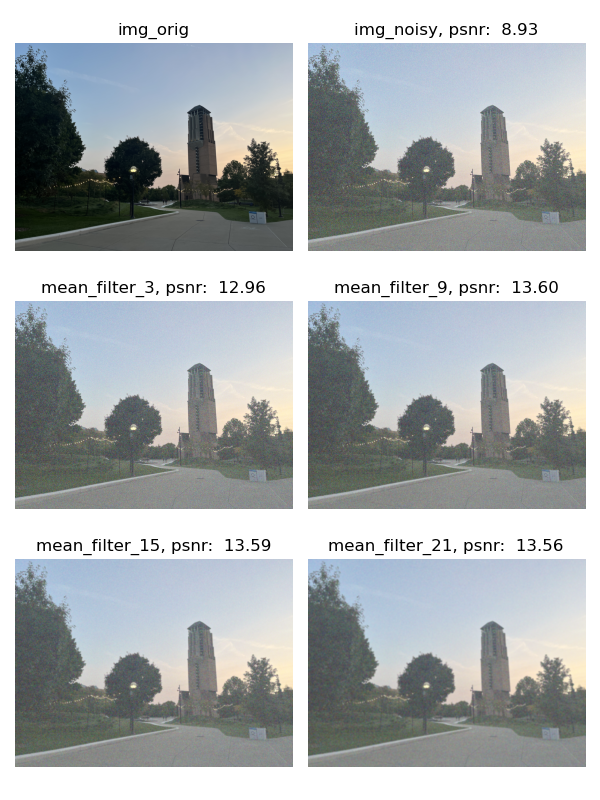
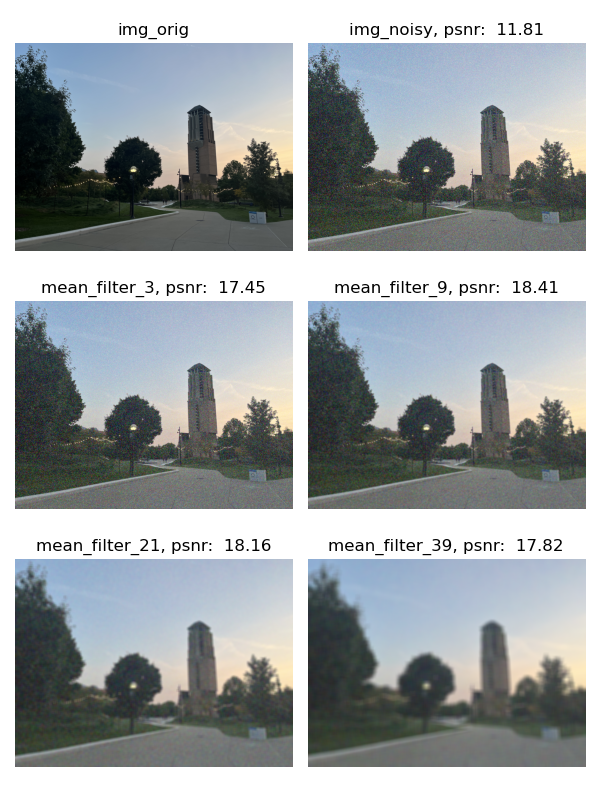
Modify 02 codes.

diff --git a/02-image-denoising/image_denoising.py b/02-image-denoising/image_denoising.py
@@ -4,17 +4,17 @@ import matplotlib.pyplot as plt
 import sys
 
 
-def get_noisy_image(path, mean=0, sigma=5):
+def get_noisy_image(path, mean, sigma):
     img = cv2.imread(path, cv2.IMREAD_GRAYSCALE)
-    #img = cv2.resize(img, (1000, 750))
+    img = cv2.resize(img, (2000, 1500))
     gauss_noise = np.random.normal(mean, sigma, img.shape).astype(img.dtype)
     img_noisy = cv2.add(img, gauss_noise)
     return img, img_noisy
 
-def get_noisy_image_color(path, mean=0, sigma=5):
+def get_noisy_image_color(path, mean, sigma):
     img= cv2.imread(path) #BGR
     img = cv2.cvtColor(img, cv2.COLOR_BGR2RGB)
-    #img = cv2.resize(img, (1000, 750))
+    img = cv2.resize(img, (2000, 1500))
     row, col, ch = img.shape
     gauss = np.random.normal(mean, sigma, (row, col, ch))
     gauss_noise = gauss.reshape(row, col, ch).astype('uint8')
@@ -44,46 +44,50 @@ def visualization(imgs: dict, save_name):
     plt.show()
 
 def get_mean_filter_results(img_orig, img_noisy):
-    mean_filtering_3 = cv2.blur(img_noisy, (3,3))
-    mean_filtering_9 = cv2.blur(img_noisy, (9,9))
-    mean_filtering_15 = cv2.blur(img_noisy, (15,15))
-    mean_filtering_21 = cv2.blur(img_noisy, (21,21))
+    mean_filtering_3 = cv2.blur(img_noisy, (3, 3))
+    mean_filtering_9 = cv2.blur(img_noisy, (9, 9))
+    mean_filtering_21 = cv2.blur(img_noisy, (21, 21))
+    mean_filtering_39 = cv2.blur(img_noisy, (39, 39))
 
-    imgs = {'img_orig': img_orig, 'img_noisy': img_noisy, 'mean_filter_3': mean_filtering_3,
-            'mean_filter_9': mean_filtering_9, 'mean_filter_15': mean_filtering_15, 'mean_filter_21': mean_filtering_21}
+    imgs = {'img_orig': img_orig,
+            'img_noisy': img_noisy,
+            'mean_filter_3': mean_filtering_3,
+            'mean_filter_9': mean_filtering_9,
+            'mean_filter_21': mean_filtering_21,
+            'mean_filter_39': mean_filtering_39 }
     return imgs
 
 def get_gaussian_filter_by_size_results(img_orig, img_noisy):
-    gaussian_filtering_3 = cv2.GaussianBlur(img_noisy, (3,3), 0)
-    gaussian_filtering_9 = cv2.GaussianBlur(img_noisy, (9,9), 0)
-    gaussian_filtering_15 = cv2.GaussianBlur(img_noisy, (15,15), 0)
-    gaussian_filtering_21 = cv2.GaussianBlur(img_noisy, (21,21), 0)
+    gaussian_filtering_3 = cv2.GaussianBlur(img_noisy, (3, 3), 0)
+    gaussian_filtering_9 = cv2.GaussianBlur(img_noisy, (9, 9), 0)
+    gaussian_filtering_21 = cv2.GaussianBlur(img_noisy, (21, 21), 0)
+    gaussian_filtering_39 = cv2.GaussianBlur(img_noisy, (39, 39), 0)
 
     imgs = {'img_orig': img_orig,
             'img_noisy': img_noisy,
             'gaussian_filter_3': gaussian_filtering_3,
             'gaussian_filter_9': gaussian_filtering_9,
-            'gaussian_filter_15': gaussian_filtering_15,
-            'gaussian_filter_21': gaussian_filtering_21}
+            'gaussian_filter_21': gaussian_filtering_21,
+            'gaussian_filter_39': gaussian_filtering_39}
     return imgs
 
 def get_median_filter_results(img_orig, img_noisy):
     median_filtering_3 = cv2.medianBlur(img_noisy, 3)
     median_filtering_9 = cv2.medianBlur(img_noisy, 9)
-    median_filtering_15 = cv2.medianBlur(img_noisy, 15)
     median_filtering_21 = cv2.medianBlur(img_noisy, 21)
+    median_filtering_39 = cv2.medianBlur(img_noisy, 39)
     imgs = {'img_orig': img_orig,
             'img_noisy': img_noisy,
             'median_filter_3': median_filtering_3,
             'median_filter_9': median_filtering_9,
-            'median_filter_15': median_filtering_15,
-            'median_filter_21': median_filtering_21}
+            'median_filter_21': median_filtering_21,
+            'median_filter_39': median_filtering_39}
     return imgs
 
 if __name__ == '__main__':
 
     # original image visualization
-    img_color_orig, img_color_noisy = get_noisy_image_color(sys.argv[1], mean=0, sigma=2)
+    img_color_orig, img_color_noisy = get_noisy_image_color(sys.argv[1], 0, 1)
     plt.subplot(1,2,1); plt.title('original image'); plt.axis('off'); plt.imshow(img_color_orig)
     plt.subplot(1,2,2); plt.title('noisy image'); plt.axis('off'); plt.imshow(img_color_noisy)
     fig = plt.gcf()
